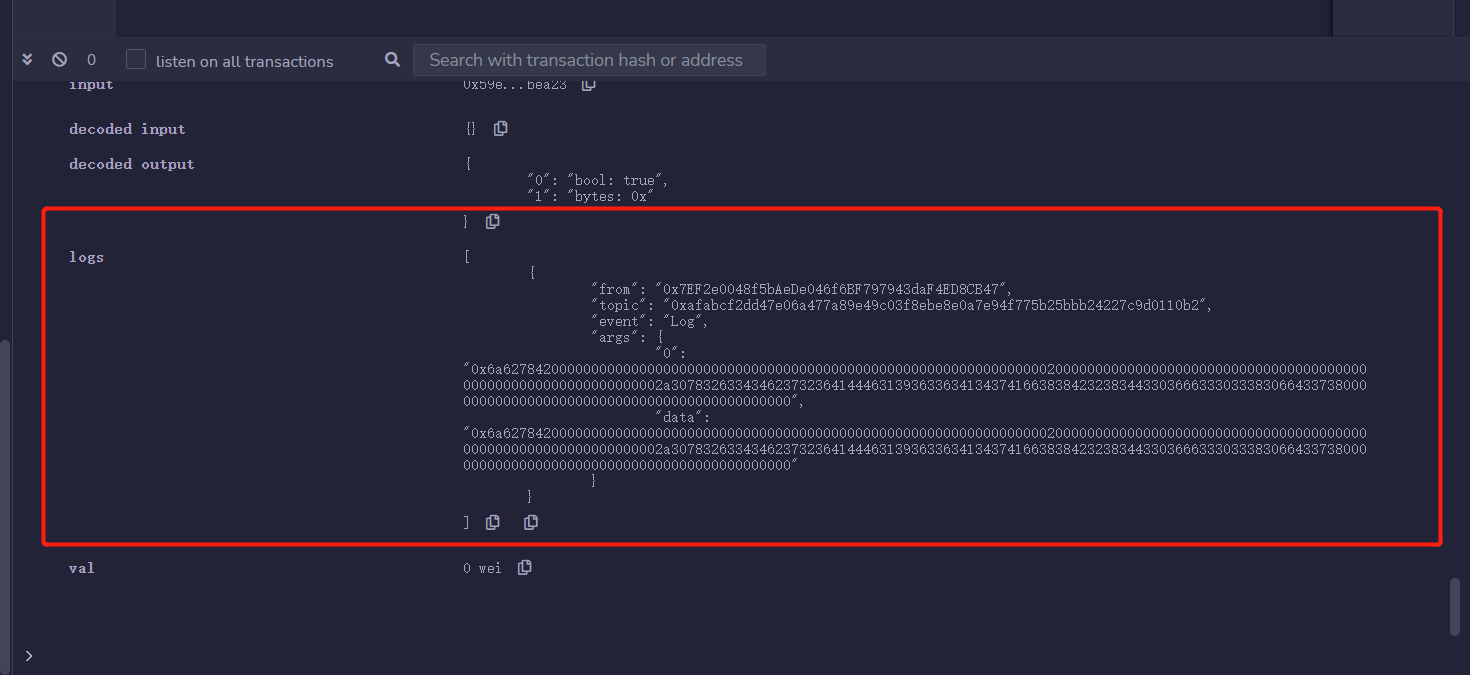
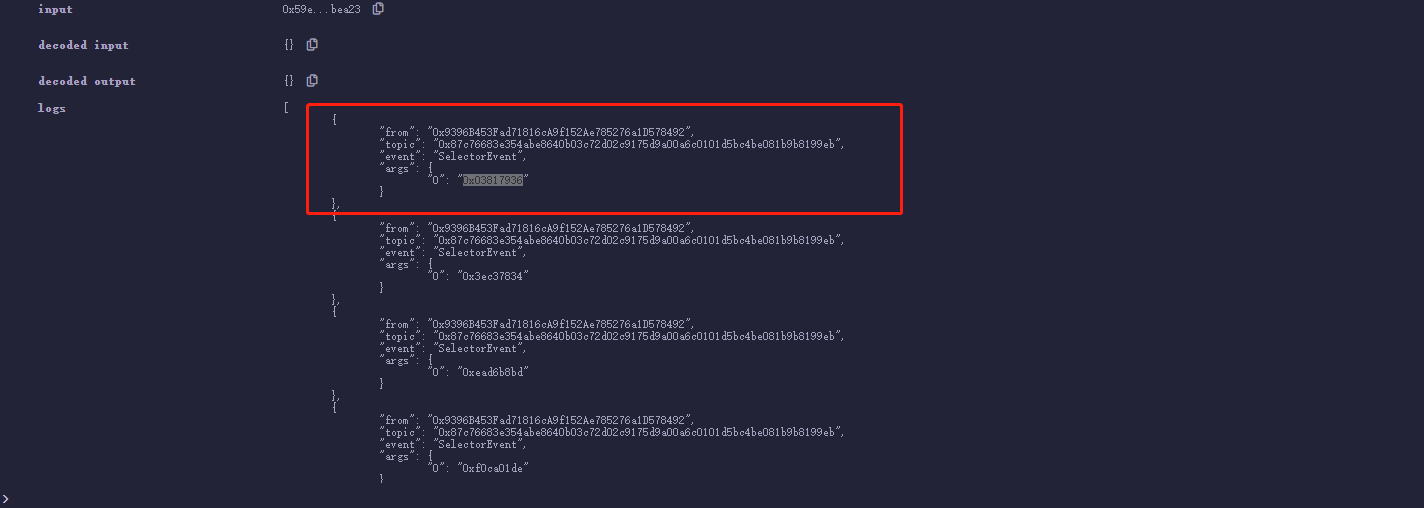
Add Calculating Method for Function Signatures with Various Parameter Types

diff --git a/29_Selector/readme.md b/29_Selector/readme.md
@@ -71,17 +71,90 @@ tags:
 
 ![method id in remix](./img/29-2.png)
 
-### 使用selector
-我们可以利用`selector`来调用目标函数。例如我想调用`mint`函数，我只需要利用`abi.encodeWithSelector`将`mint`函数的`method id`作为`selector`和参数打包编码，传给`call`函数：
+由于计算`method id`时，需要通过函数名和函数的参数类型来计算。在`Solidity`中，函数的参数类型主要分为：基础类型参数，固定长度类型参数，可变长度类型参数和映射类型参数。
+
+##### 基础类型参数
+`solidity`中，基础类型的参数有：`uint256`(`uint8`, ... , `uint256`)、`bool`, `address`等。在计算`method id`时，只需要计算`bytes4(keccak256("函数名(参数类型1,参数类型2,...)"))`。例如，如下函数，函数名为`elementaryParamSelector`，参数类型分别为`uint256`和`bool`。所以，只需要计算`bytes4(keccak256("elementaryParamSelector(uint256,bool)"))`便可得到此函数的`method id`。
+```solidity
+    // elementary（基础）类型参数selector
+    // 输入：param1: 1，param2: 0
+    // elementaryParamSelector(uint256,bool) : 0x3ec37834
+    function elementaryParamSelector(uint256 param1, bool param2) external returns(bytes4 selectorWithElementaryParam){
+        emit SelectorEvent(this.elementaryParamSelector.selector);
+        return bytes4(keccak256("elementaryParamSelector(uint256,bool)"));
+    }
+```
+
+##### 固定长度类型参数
+固定长度的参数类型通常为固定长度的数组，例如：`uint256[5]`等。例如，如下函数`fixedSizeParamSelector`的参数为`uint256[3]`。因此，在计算该函数的`method id`时，只需要通过`bytes4(keccak256("fixedSizeParamSelector(uint256[3])"))`即可。
 
 ```solidity
-    function callWithSignature() external returns(bool, bytes memory){
-        (bool success, bytes memory data) = address(this).call(abi.encodeWithSelector(0x6a627842, 0x2c44b726ADF1963cA47Af88B284C06f30380fC78));
-        return(success, data);
+    // fixed size（固定长度）类型参数selector
+    // 输入： param1: [1,2,3]
+    // fixedSizeParamSelector(uint256[3]) : 0xead6b8bd
+    function fixedSizeParamSelector(uint256[3] memory param1) external returns(bytes4 selectorWithFixedSizeParam){
+        emit SelectorEvent(this.fixedSizeParamSelector.selector);
+        return bytes4(keccak256("fixedSizeParamSelector(uint256[3])"));
+    }
+```
+
+##### 可变长度类型参数
+可变长度参数类型通常为可变长的数组，例如：`address[]`、`uint8[]`、`string`等。例如，如下函数`nonFixedSizeParamSelector`的参数为`uint256[]`和`string`。因此，在计算该函数的`method id`时，只需要通过`bytes4(keccak256("nonFixedSizeParamSelector(uint256[],string)"))`即可。
+
+```solidity
+    // non-fixed size（可变长度）类型参数selector
+    // 输入： param1: [1,2,3]， param2: "abc"
+    // nonFixedSizeParamSelector(uint256[],string) : 0xf0ca01de
+    function nonFixedSizeParamSelector(uint256[] memory param1,string memory param2) external returns(bytes4 selectorWithNonFixedSizeParam){
+        emit SelectorEvent(this.nonFixedSizeParamSelector.selector);
+        return bytes4(keccak256("nonFixedSizeParamSelector(uint256[],string)"));
+    }
+```
+
+##### 映射类型参数
+映射类型参数通常有：`contract`、`enum`、`struct`等。在计算`method id`时，需要将该类型转化成为`ABI`类型。
+
+例如，如下函数`mappingParamSelector`中`DemoContract`需要转化为`address`，结构体`User`需要转化为`tuple`类型`(uint256,bytes)`，枚举类型`School`需要转化为`uint8`。因此，计算该函数的`method id`的代码为`bytes4(keccak256("mappingParamSelector(address,(uint256,bytes),uint256[],uint8)"))`。
+
+```solidity
+contract DemoContract {
+    // empty contract
+}
+
+contract Selector{
+    // Struct User
+    struct User {
+        uint256 uid;
+        bytes name;
+    }
+    // Enum School
+    enum School { SCHOOL1, SCHOOL2, SCHOOL3 }
+    ...
+    // mapping（映射）类型参数selector
+    // 输入：demo: 0x9D7f74d0C41E726EC95884E0e97Fa6129e3b5E99， user: [1, "0xa0b1"], count: [1,2,3], mySchool: 1
+    // mappingParamSelector(address,(uint256,bytes),uint256[],uint8) : 0xe355b0ce
+    function mappingParamSelector(DemoContract demo, User memory user, uint256[] memory count, School mySchool) external returns(bytes4 selectorWithMappingParam){
+        emit SelectorEvent(this.mappingParamSelector.selector);
+        return bytes4(keccak256("mappingParamSelector(address,(uint256,bytes),uint256[],uint8)"));
+    }
+    ...
+}
+```
+
+### 使用selector
+我们可以利用`selector`来调用目标函数。例如我想调用`elementaryParamSelector`函数，我只需要利用`abi.encodeWithSelector`将`elementaryParamSelector`函数的`method id`作为`selector`和参数打包编码，传给`call`函数：
+
+```solidity
+    // 使用selector来调用函数
+    function callWithSignature() external{
+	...
+        // 调用elementaryParamSelector函数
+        (bool success1, bytes memory data1) = address(this).call(abi.encodeWithSelector(0x3ec37834, 1, 0));
+	...
     }
 ```
 
-在日志中，我们可以看到`mint`函数被成功调用，并输出`Log`事件。
+在日志中，我们可以看到`elementaryParamSelector`函数被成功调用，并输出`Log`事件。
 
 ![logs in remix](./img/29-3.png)
 
